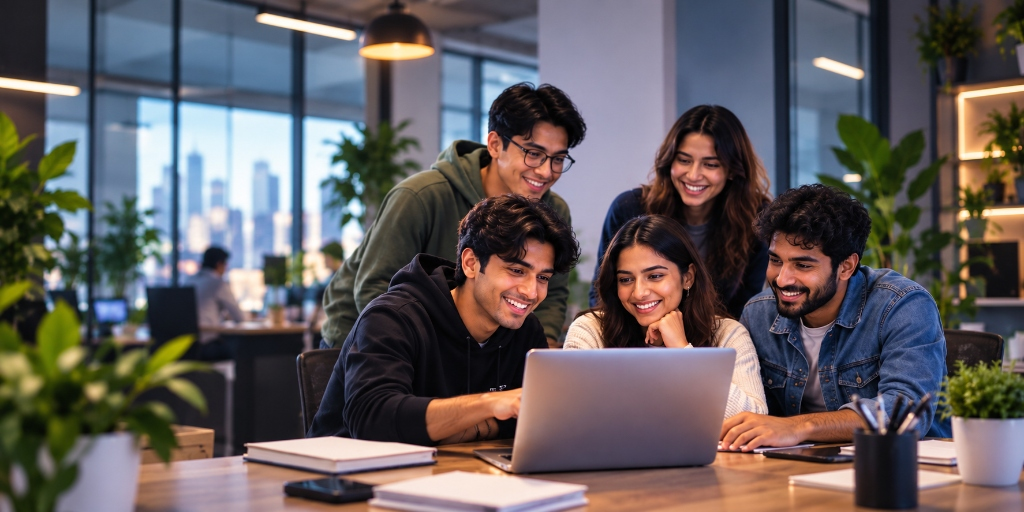
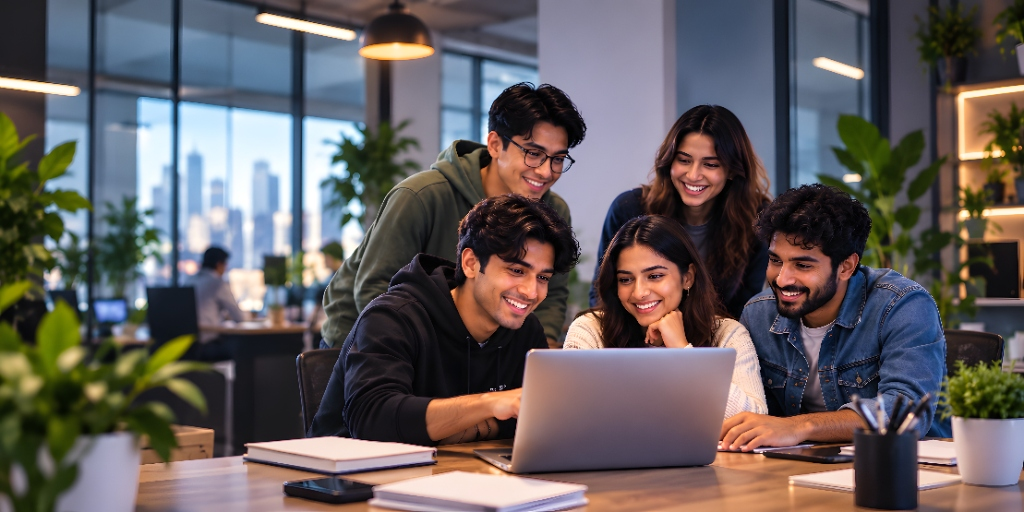
fix: global auth modal & card click behavior

Changed region(s): [[0.875, 0.5625, 0.9062, 0.5938]]

diff --git a/apps/frontend/src/components/SocialProof.tsx b/apps/frontend/src/components/SocialProof.tsx
@@ -1,8 +1,5 @@
 "use client";
 
-import Link from "next/link";
-import { ArrowRight } from "lucide-react";
-
 interface DilemmaCard {
   id: string;
   student: string;
@@ -72,10 +69,9 @@ export default function SocialProof() {
         <div className="grid grid-cols-1 md:grid-cols-3 gap-4 sm:gap-6">
           {DILEMMAS.map((item) => {
             return (
-              <Link
+              <div
                 key={item.id}
-                href="/assessment"
-                className="group relative p-5 sm:p-6 bg-white border border-[#E2E0DB] shadow-sm hover:shadow-md hover:-translate-y-0.5 transition-all duration-200 rounded-2xl flex flex-col justify-between overflow-hidden"
+                className="group relative p-5 sm:p-6 bg-white border border-[#E2E0DB] shadow-sm hover:shadow-md transition-all duration-200 rounded-2xl flex flex-col justify-between overflow-hidden"
               >
                 {/* Small length accent border */}
                 <div className="absolute top-0 left-6 w-12 h-[3px] bg-[#A9B4E8] rounded-full group-hover:w-16 transition-all duration-300" />
@@ -99,13 +95,16 @@ export default function SocialProof() {
                   </div>
                 </div>
 
-                <div className="mt-5 pt-3.5 border-t border-[#E2E0DB] flex items-center justify-between">
-                  <span className="text-xs font-bold text-black group-hover:text-[#7C89CC] transition-colors">
-                    See Calibration
+                <div className="mt-5 pt-3.5 border-t border-[#E2E0DB] flex items-center justify-between text-xs font-bold text-black">
+                  <span className="flex items-center gap-1.5 text-[#333333]">
+                    <span className="w-2 h-2 rounded-full bg-[#A9D8C6]" />
+                    {item.answers}
                   </span>
-                  <ArrowRight className="w-4 h-4 text-black group-hover:translate-x-1 group-hover:text-[#7C89CC] transition-all" />
+                  <span className="text-[11px] font-semibold text-[#555555] bg-[#F5F5F3] px-2 py-0.5 rounded-md">
+                    Calibrated
+                  </span>
                 </div>
-              </Link>
+              </div>
             );
           })}
         </div>

diff --git a/apps/frontend/src/components/Navbar.tsx b/apps/frontend/src/components/Navbar.tsx
@@ -3,14 +3,24 @@
 import { useState, useEffect } from "react";
 import Link from "next/link";
 import { Compass, Menu, X, ArrowRight, User } from "lucide-react";
+import { useAuth } from "@/context/AuthContext";
 
 interface NavbarProps {
   onOpenAuth?: () => void;
 }
 
 export default function Navbar({ onOpenAuth }: NavbarProps) {
+  const { openAuth } = useAuth();
   const [mobileMenuOpen, setMobileMenuOpen] = useState(false);
   const [scrolled, setScrolled] = useState(false);
+
+  const handleAuth = () => {
+    if (onOpenAuth) {
+      onOpenAuth();
+    } else {
+      openAuth();
+    }
+  };
 
   useEffect(() => {
     const handleScroll = () => {
@@ -81,7 +91,7 @@ export default function Navbar({ onOpenAuth }: NavbarProps) {
         {/* CTA Actions */}
         <div className="flex items-center gap-2 sm:gap-3">
           <button
-            onClick={onOpenAuth}
+            onClick={handleAuth}
             className="hidden sm:inline-flex items-center gap-1.5 text-xs font-bold bg-white text-black border border-[#E2E0DB] hover:bg-[#EEF1FB] px-4 py-2.5 rounded-xl shadow-sm transition-all duration-200 cursor-pointer"
           >
             <User className="w-4 h-4 text-black" />
@@ -156,7 +166,7 @@ export default function Navbar({ onOpenAuth }: NavbarProps) {
             <button
               onClick={() => {
                 setMobileMenuOpen(false);
-                onOpenAuth?.();
+                handleAuth();
               }}
               className="w-full py-3 px-4 rounded-xl border border-[#E2E0DB] bg-white text-black font-bold text-sm flex items-center justify-center gap-2 hover:bg-[#EEF1FB] shadow-sm transition-all"
             >

diff --git a/apps/frontend/src/app/page.tsx b/apps/frontend/src/app/page.tsx
@@ -1,6 +1,5 @@
 "use client";
 
-import { useState } from "react";
 import ScrollProgress from "@/components/ScrollProgress";
 import Navbar from "@/components/Navbar";
 import Hero from "@/components/Hero";
@@ -10,18 +9,15 @@ import AboutSection from "@/components/AboutSection";
 import CtaBanner from "@/components/CtaBanner";
 import Footer from "@/components/Footer";
 import FloatingQuickAction from "@/components/FloatingQuickAction";
-import AuthModal from "@/components/AuthModal";
 
 export default function Home() {
-  const [authModalOpen, setAuthModalOpen] = useState(false);
-
   return (
     <div className="min-h-screen flex flex-col bg-[#FBFBF9] text-black font-[family-name:var(--font-inter)] selection:bg-[#A9B4E8] selection:text-black">
       {/* 1. Sticky Top Scroll Progress Tracker */}
       <ScrollProgress />
 
       {/* 2. Navigation */}
-      <Navbar onOpenAuth={() => setAuthModalOpen(true)} />
+      <Navbar />
 
       {/* Main Content */}
       <main className="flex-1">
@@ -49,9 +45,6 @@ export default function Home() {
 
       {/* 10. Floating Quick Action */}
       <FloatingQuickAction />
-
-      {/* 11. Authentication Modal */}
-      <AuthModal isOpen={authModalOpen} onClose={() => setAuthModalOpen(false)} />
     </div>
   );
 }

diff --git a/apps/frontend/src/context/AuthContext.tsx b/apps/frontend/src/context/AuthContext.tsx
@@ -1,0 +1,34 @@
+"use client";
+
+import React, { createContext, useContext, useState, ReactNode } from "react";
+import AuthModal from "@/components/AuthModal";
+
+interface AuthContextType {
+  isAuthOpen: boolean;
+  openAuth: () => void;
+  closeAuth: () => void;
+}
+
+const AuthContext = createContext<AuthContextType | undefined>(undefined);
+
+export function AuthProvider({ children }: { children: ReactNode }) {
+  const [isAuthOpen, setIsAuthOpen] = useState(false);
+
+  const openAuth = () => setIsAuthOpen(true);
+  const closeAuth = () => setIsAuthOpen(false);
+
+  return (
+    <AuthContext.Provider value={{ isAuthOpen, openAuth, closeAuth }}>
+      {children}
+      <AuthModal isOpen={isAuthOpen} onClose={closeAuth} />
+    </AuthContext.Provider>
+  );
+}
+
+export function useAuth() {
+  const context = useContext(AuthContext);
+  if (!context) {
+    throw new Error("useAuth must be used within an AuthProvider");
+  }
+  return context;
+}

diff --git a/apps/frontend/src/app/layout.tsx b/apps/frontend/src/app/layout.tsx
@@ -26,6 +26,8 @@ export const metadata: Metadata = {
     "One assessment. A clearer picture of your innate strengths, deep interests, and real-world career directions before committing years of your life.",
 };
 
+import { AuthProvider } from "@/context/AuthContext";
+
 export default function RootLayout({
   children,
 }: {
@@ -34,7 +36,9 @@ export default function RootLayout({
   return (
     <html lang="en" className={`${dmSans.variable} ${inter.variable} scroll-smooth`}>
       <body className="bg-[#FBFBF9] text-black font-[family-name:var(--font-inter)] antialiased overflow-x-hidden selection:bg-[#A9B4E8] selection:text-black min-h-screen flex flex-col">
-        {children}
+        <AuthProvider>
+          {children}
+        </AuthProvider>
       </body>
     </html>
   );

diff --git a/apps/frontend/src/components/Footer.tsx b/apps/frontend/src/components/Footer.tsx
@@ -107,17 +107,7 @@ export default function Footer() {
         </div>
 
         {/* Footnote */}
-        <div className="mt-8 flex flex-col sm:flex-row items-center justify-between text-xs text-[#888888] font-bold gap-4">
-          <div>
-            Architected for the next generation of builders, thinkers, and strategists.
-          </div>
-          <div className="flex items-center gap-4 font-bold">
-            <span className="inline-flex items-center gap-1.5 text-black bg-[#A9D8C6] px-3 py-1 rounded-full font-extrabold">
-              <span className="w-2 h-2 rounded-full bg-black animate-pulse" />
-              Adaptive Engine v2.6 Active
-            </span>
-          </div>
-        </div>
+        
       </div>
     </footer>
   );

diff --git a/apps/frontend/src/app/globals.css b/apps/frontend/src/app/globals.css
@@ -127,13 +127,13 @@
 .animate-ticker {
   display: flex;
   width: max-content;
-  animation: ticker 35s linear infinite;
+  animation: ticker 68s linear infinite;
 }
 
 .animate-ticker-reverse {
   display: flex;
   width: max-content;
-  animation: ticker-reverse 35s linear infinite;
+  animation: ticker-reverse 68s linear infinite;
 }
 
 .animate-ticker:hover, .animate-ticker-reverse:hover {
